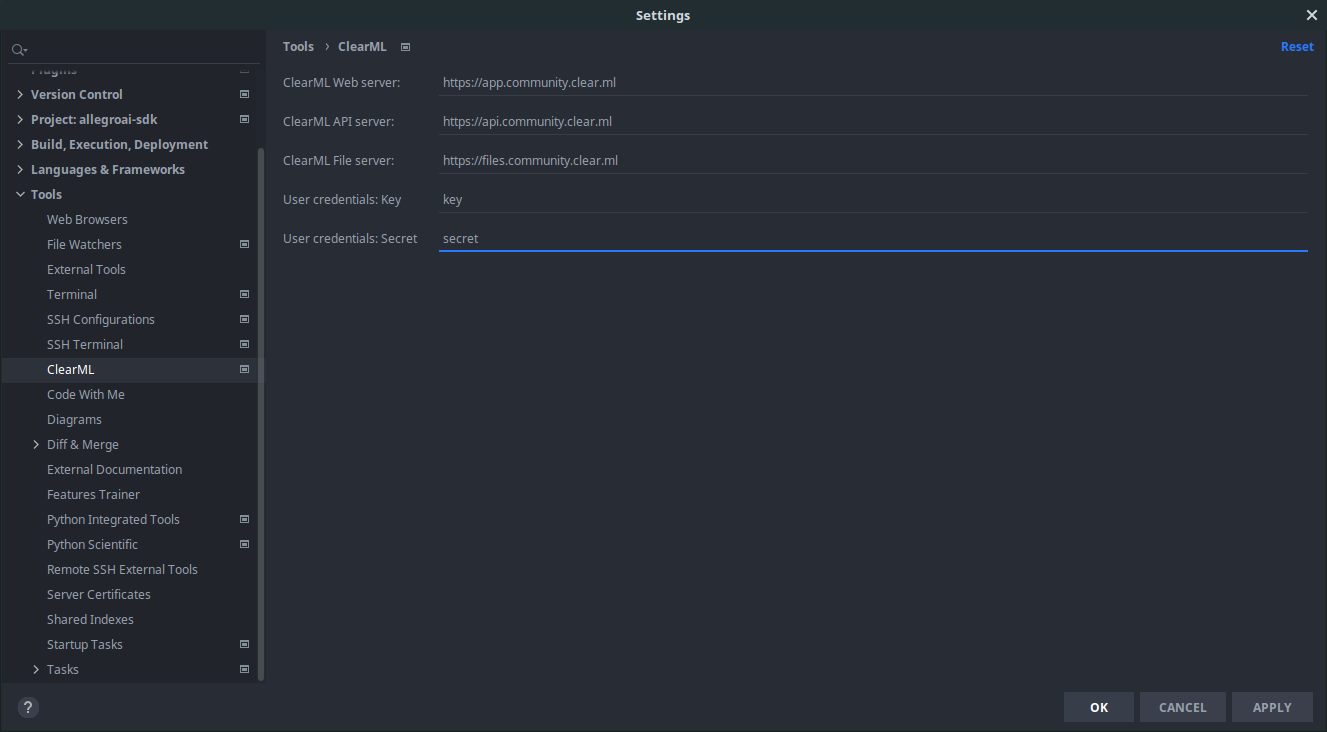
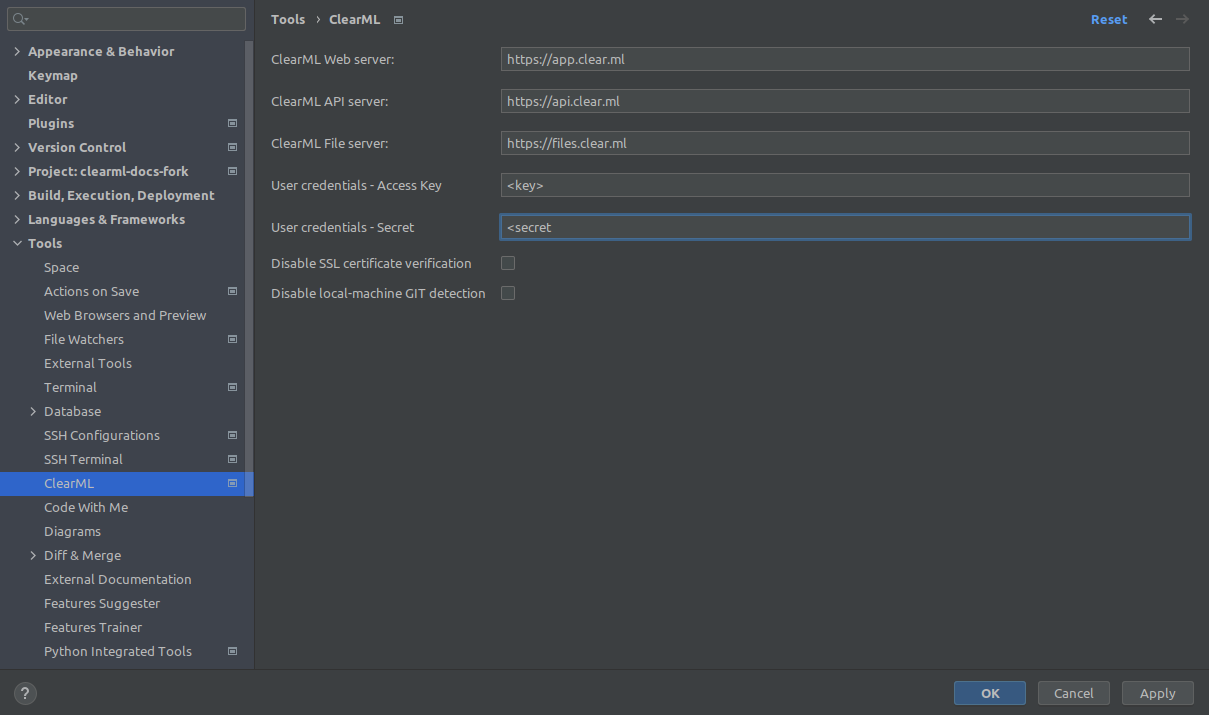
Update Pycharm plugin info

diff --git a/docs/guides/ide/integration_pycharm.md b/docs/guides/ide/integration_pycharm.md
@@ -4,9 +4,14 @@ title: Integration for PyCharm
 
 The **ClearML PyCharm plugin** enables syncing a local execution configuration to a remote executor machine:
 
-* Sync local repository information to a remote debug machine.
+* Sync local repository information to a remote machine - When using PyCharm to run/debug code remotely using 
+an SSH connection, PyCharm copies the code base into the remote machine and runs it there. PyCharm does not copy 
+the `.git` folder into the remote machine, so ClearML can't detect the correct git repository details when running on the 
+remote machine. The ClearML PyCharm plugin detects the git details on the local 
+machine, and passes that information to the remote machine to be registered to a [task](../../fundamentals/task.md).
 
-* Multiple users can use the same resource for execution without compromising private credentials.
+* Pass user credentials to a remote machine - Multiple users can use the same resource for execution without compromising 
+private credentials (assuming the entire code base, including `.git` already exists on the remote machine)
 
 * Run the [ClearML Agent](../../clearml_agent.md) on default VMs/Containers.
 
@@ -36,4 +41,11 @@ the settings in the ClearML configuration file.
     
 1. Add ClearML user credentials key/secret.
 
-![image](../../img/ide_pycharm_config_params.png)
+1. Check box to disable SSL certificate verification (for on-prem `clearml-server` installations).
+
+1. Check box to disable local git detection. The PyCharm plugin is often used to run git detection on the local machine 
+since there is no `.git` folder on the remote machine. In the case that the plugin is used just for passing configuration 
+to a remote SSH machine, there is no need to run the git detection on the local machine.
+
+
+![PyCharm configuration](../../img/ide_pycharm_config_params.png)
